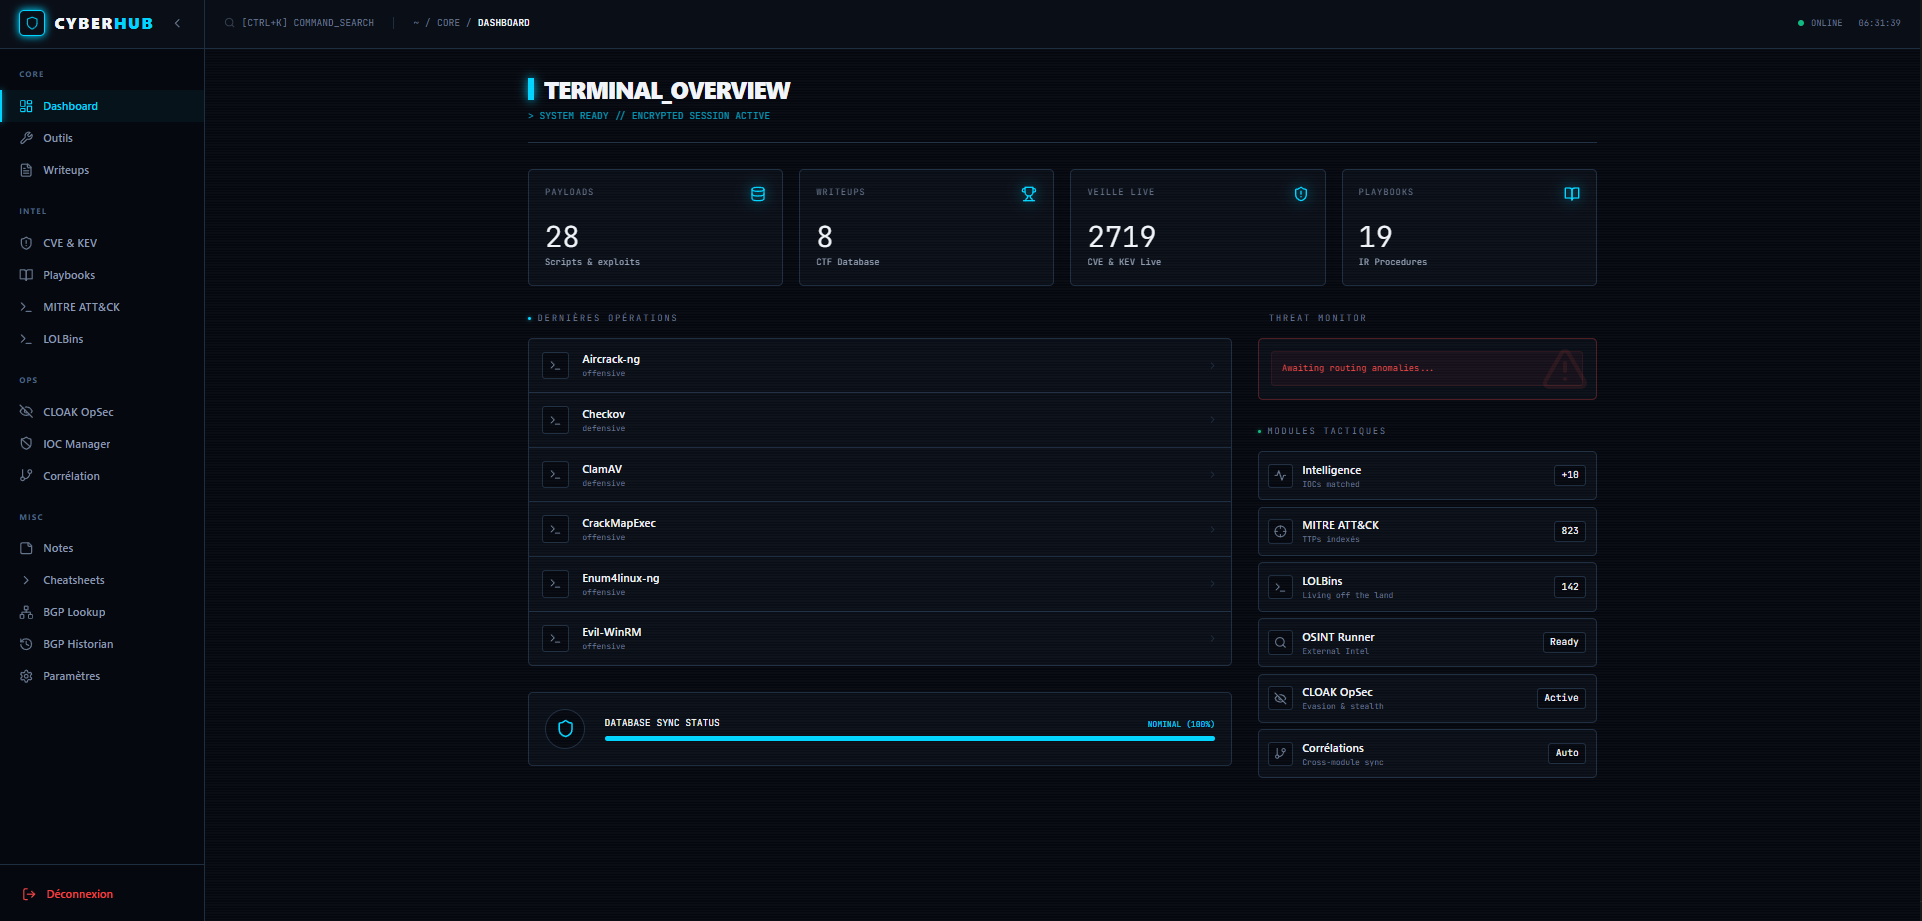
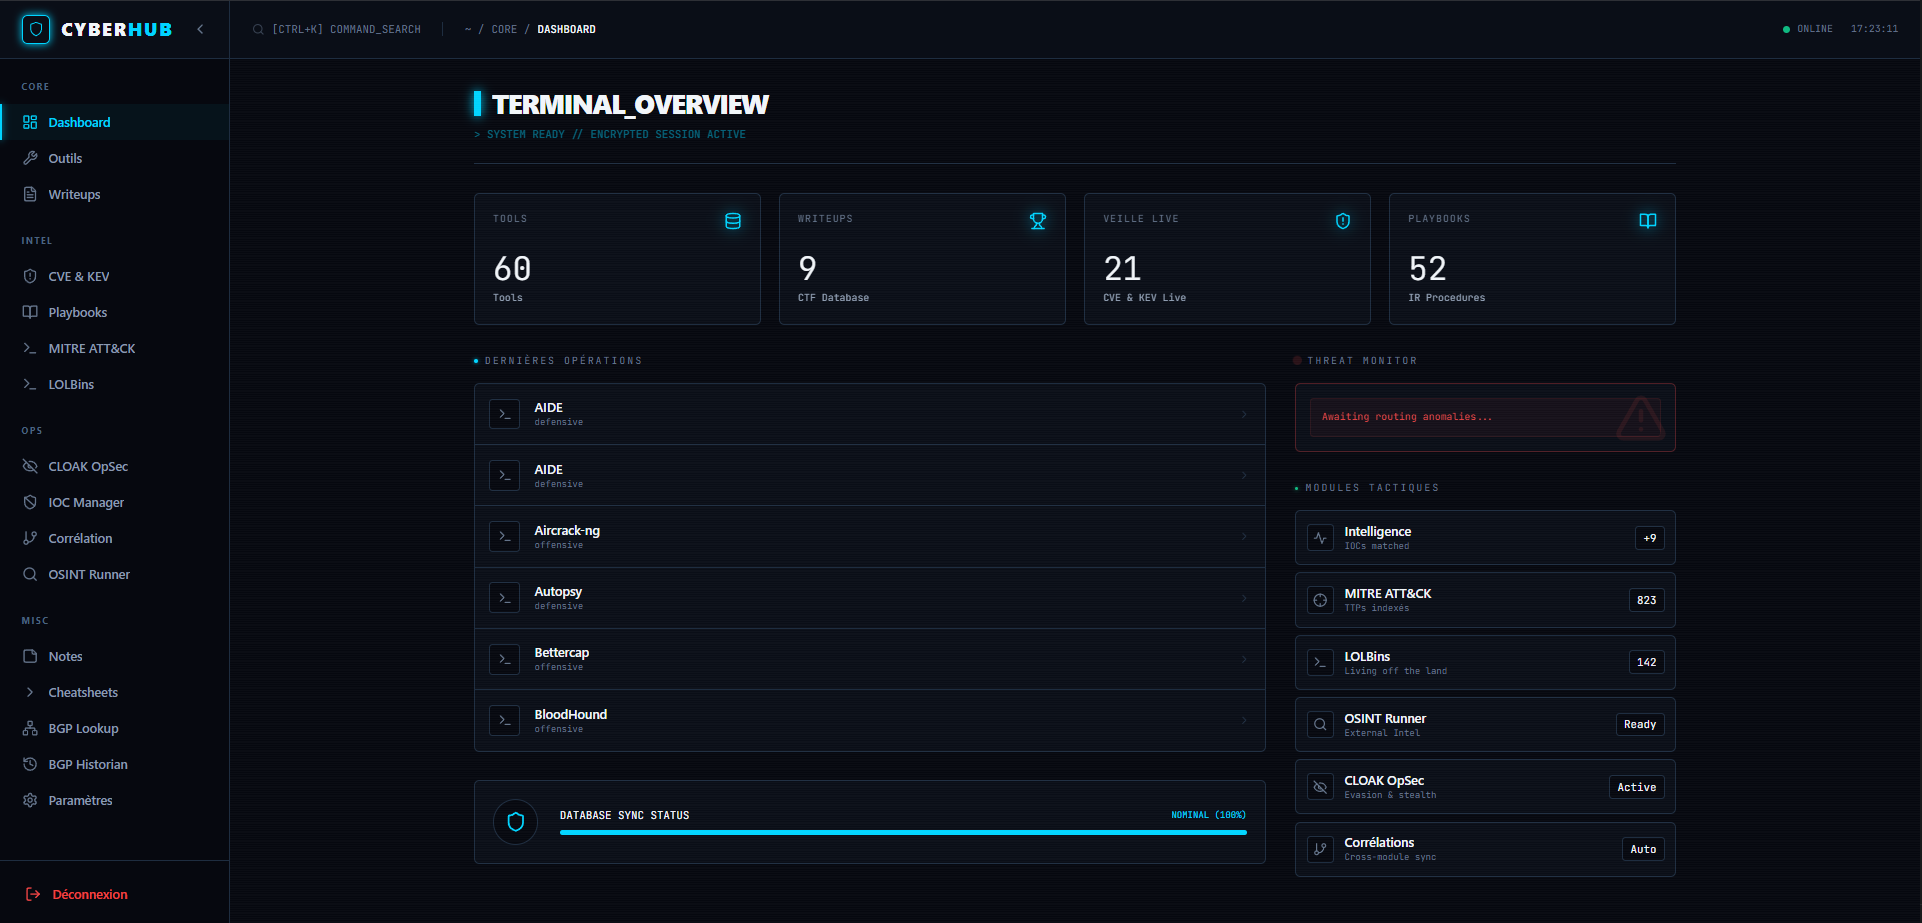
Add new screenshoot

diff --git a/README.md b/README.md
@@ -28,6 +28,18 @@ Application de bureau pour centraliser vos outils, writeups CTF, veille CVE, pla
 ### Dashboard
 ![Dashboard](./.github/screenshots/dashboard.png)
 
+### CVE Watch
+![CVE](./.github/screenshots/cve.png)
+
+### MITRE ATT&CK
+![MITRE ATT&CK](./.github/screenshots/mitre.png)
+
+### LOLBINS
+![LOLBINS](./.github/screenshots/lolbins.png)
+
+### BGP Lookup
+![BGP Lookup](./.github/screenshots/bgp.png)
+
 ### IOC Manager
 ![IOC Manager](./.github/screenshots/iocmanager.png)
 
